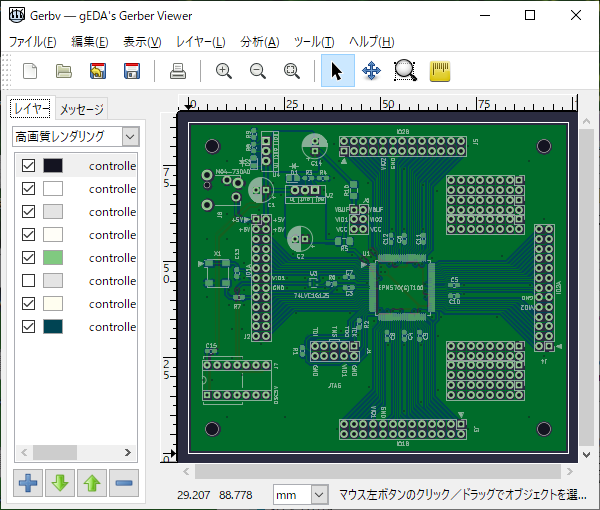
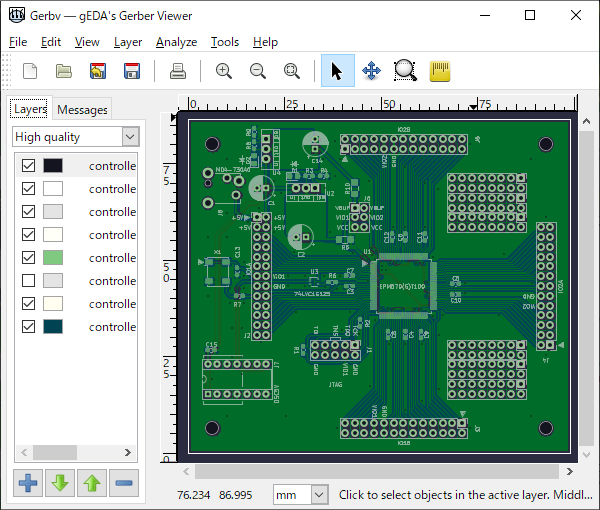
Add files via upload

diff --git a/README.md b/README.md
@@ -7,14 +7,14 @@ Windows port of gEDA gerber viewer
 
 ## Overview
 A set of [gerbv 2.7.0](https://sourceforge.net/projects/gerbv/files/gerbv/gerbv-2.7.0/ ) files for execution on MS-Windows. [32bit version ](./32bit) and [64bit version](./64bit) are available.
-They are build with msys64 (mingw-w64).  
+They are built with msys64 (mingw-w64).  
 
 
 ## Install
 Copy the contents of [32bit](./32bit) or [64bit](./64bit) into an arbitrary directory.
 Please keep the positional relation between **bin**, **lib** and **share** as below.  
 ```TEXT
-<install_dir> --+-- bin\ （この中に gerbv.exe がある）
+<install_dir> --+-- bin\ （gerbv.exe is here）
                 |
                 +-- etc\
                 |

diff --git a/README_jp.md b/README_jp.md
@@ -3,7 +3,7 @@
 # gerbv 2.7.0 for Windows
 gEDA gerbv を Windows で動作するように修正したソースコードと実行バイナリです。  
   
-<img src="./sample.png" width="600px" alt="gerbv" title="gerbv">
+<img src="./sample_jp.png" width="600px" alt="gerbv" title="gerbv">
 
 ## Overview
 [gerbv 2.7.0](https://sourceforge.net/projects/gerbv/files/gerbv/gerbv-2.7.0/ ) のWindows実行用ファイル一式です。[32bit版](./32bit) と [64bit版](./64bit) があります。  
